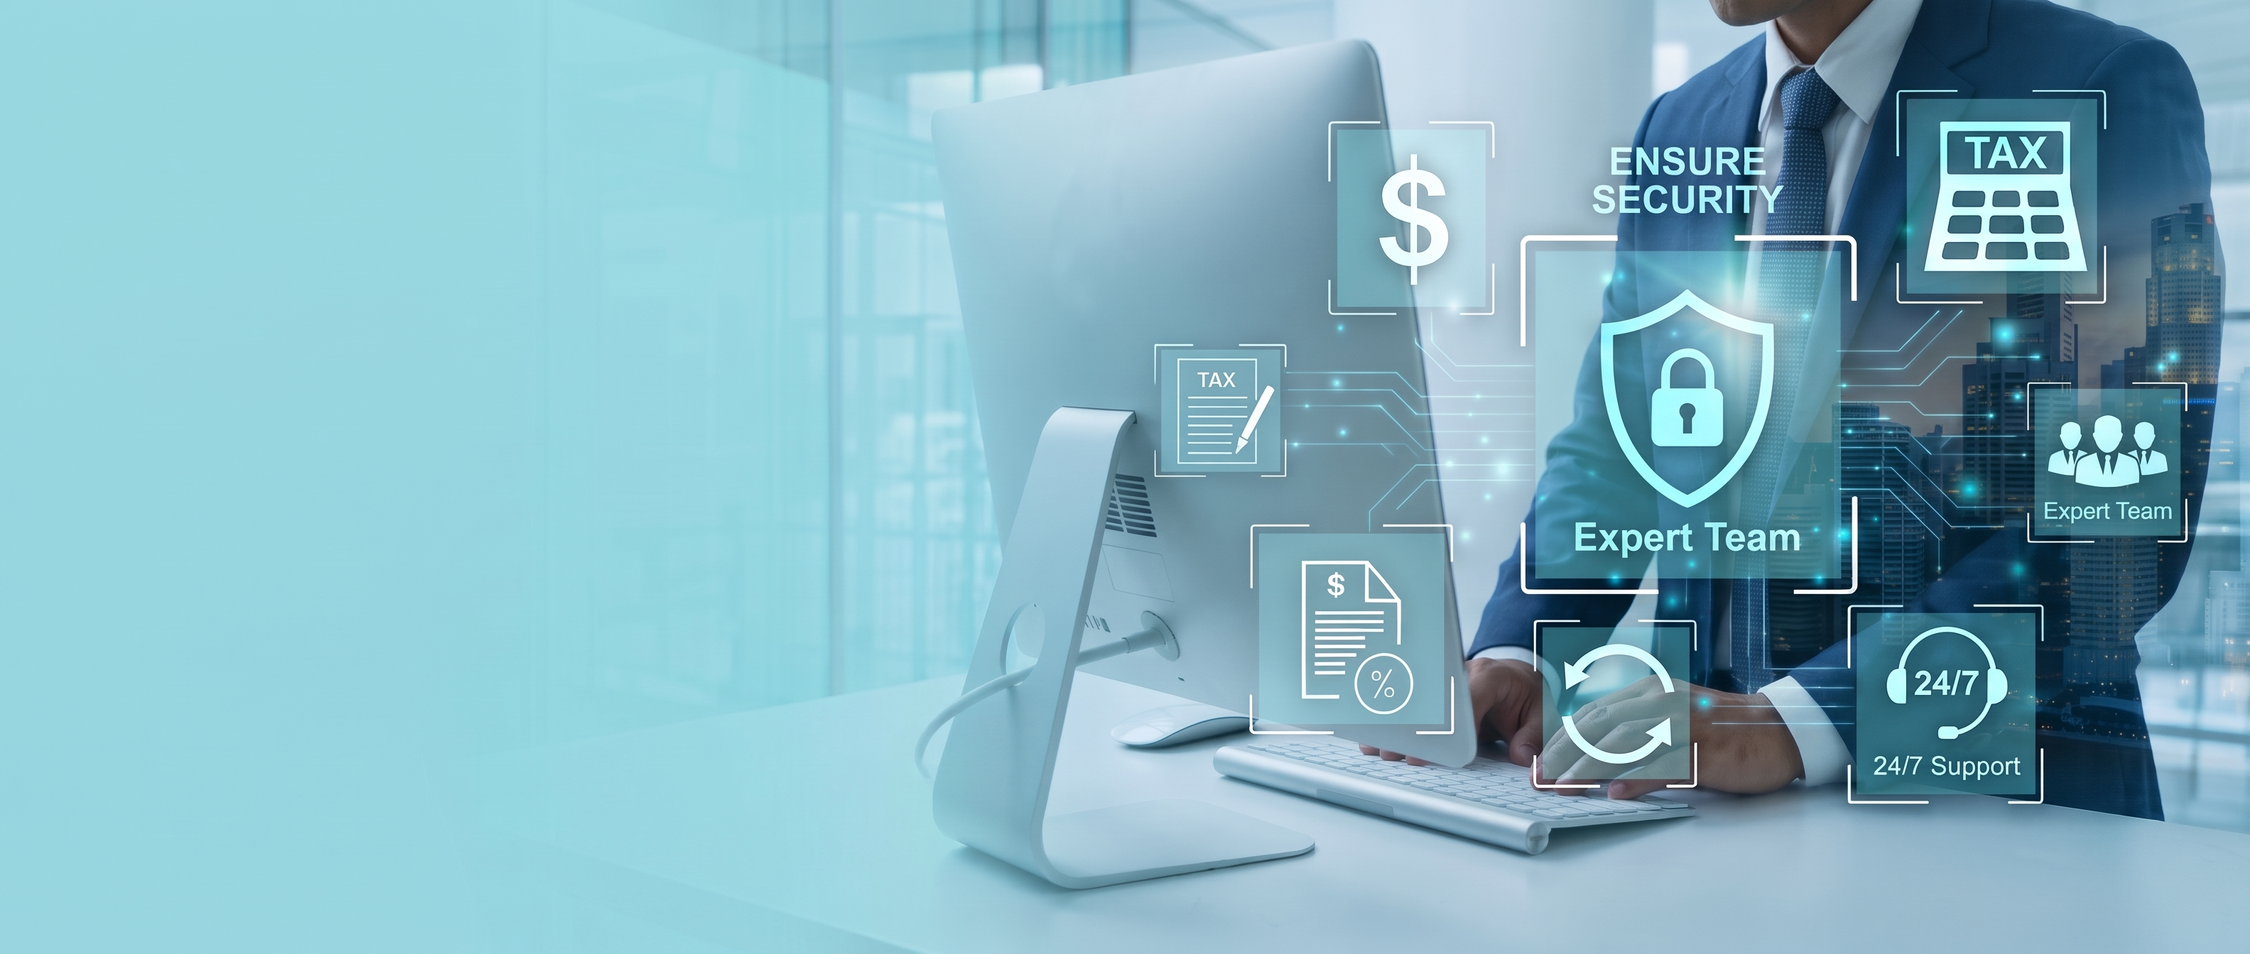
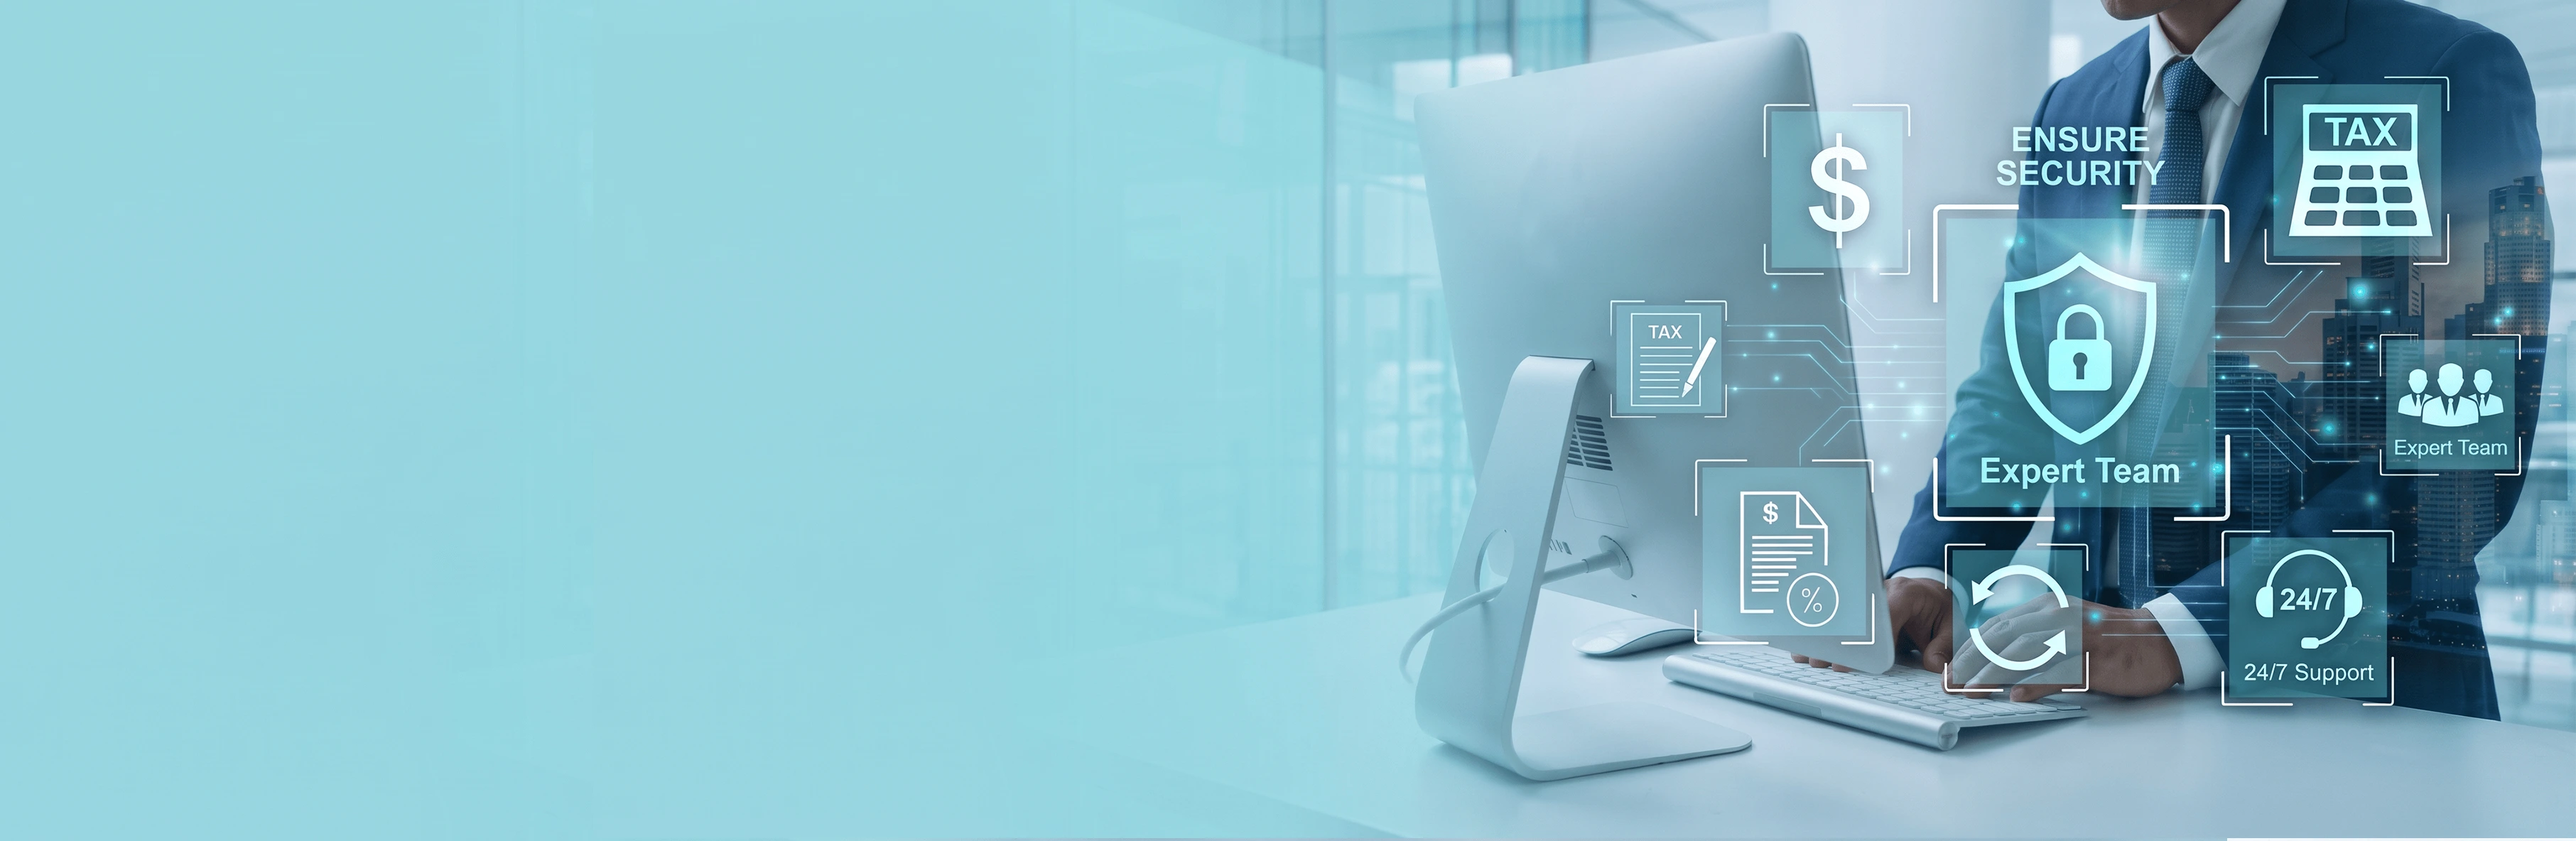
feature bannar change

diff --git a/assets/css/style.css b/assets/css/style.css
@@ -2665,6 +2665,9 @@ Breadcrumb Styles
   background-image: url(../images/banner/feature-banner.webp) no-repeat scroll center center;
   background: url(../images/banner/feature-banner.webp) no-repeat scroll center center;
   background-size: cover;
+  background-size: contain;
+    background-position: right;
+    background-color: #97d6df !important;
 }
 
 .services-banner{
